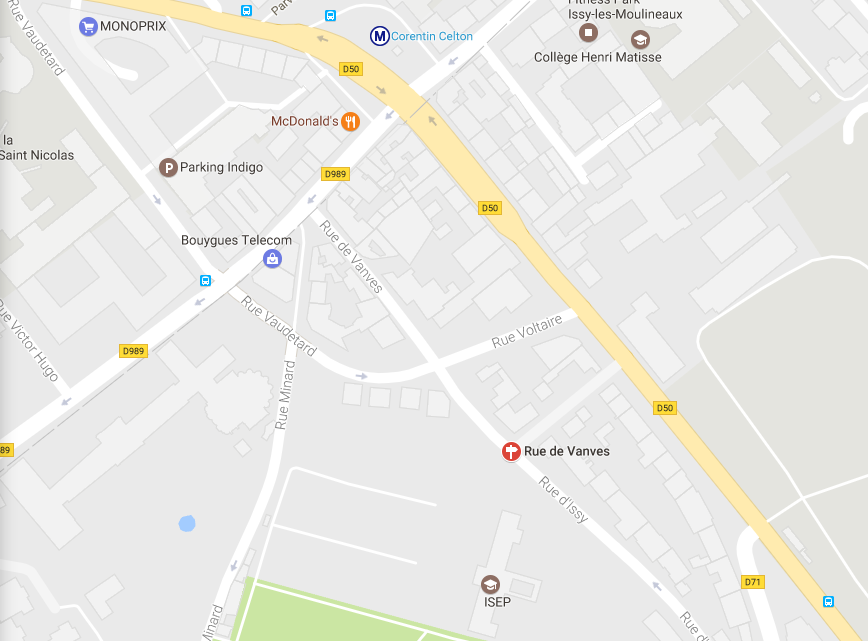
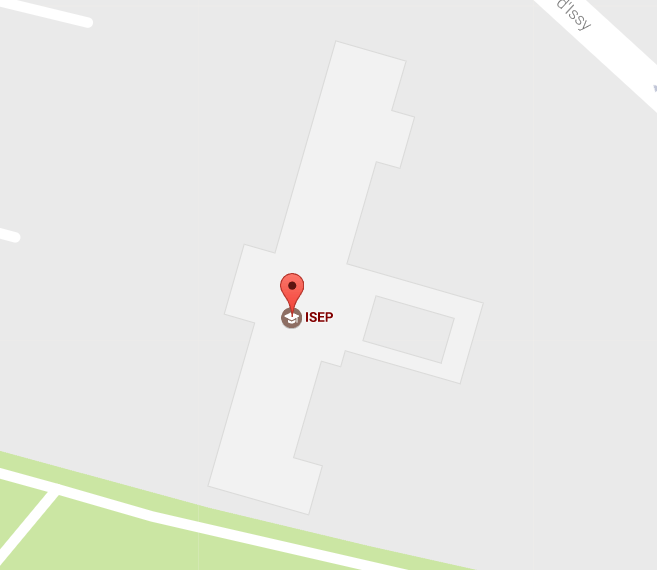
Modification mineures
- Logo ehome maintenant plus petit et avec plus de marge de chaque côté
- Décalage du menu objet
- nouvelle image dans le footer et lien vers google maps

diff --git a/views/styles/structure.css b/views/styles/structure.css
@@ -32,11 +32,6 @@ html
 
 }
 
-/*nav
-{
-  border: 5px solid yellow;
-}
-*/
 
 #content
 {
@@ -58,6 +53,8 @@ html
   align-items: center;
   margin: auto;
   height: 10%;
+  /*border: 5px solid green;
+  */
 }
 
 .menu_elements
@@ -66,7 +63,8 @@ html
   text-align: center;
   margin-right: 2.5%;
   vertical-align: middle;
-  /*padding: 15px;*/
+  /*border: 5px solid green;
+  */
 }
 
 .text_menu
@@ -74,6 +72,19 @@ html
   text-decoration: none;
   color: white;
   font-family: 'gr-book';
+  /*border: 5px solid green;
+  */
+}
+
+.logo_menu
+{
+  margin-left: 10px;
+  margin-right: 10px;
+  /*border: 5px solid yellow;*/
+  height: 30px;
+  margin-top: 20px;
+  margin-bottom: 20px;
+
 }
 
 /******************************************************************MENU PRODUITS*************************************************************/
@@ -84,9 +95,10 @@ html
   background-color: rgb(211,211,211);
   display: flex;
   margin: 0;
-  padding: 15px;
+  padding: 13px;
+  padding-left: 60px;
   /*border: 5px solid yellow;
-  */
+*/
 }
 
 .text_menu_products
@@ -101,12 +113,10 @@ html
 .menu_products_elements
 {
   list-style: none;
-  text-align: center;
-  margin-right: 50px;
   margin-left: 30px;
+  margin-right: 30px;
   /*border: 5px solid green;
-  */
-
+*/
 }
 
 /******************************************************************FOOTER *******************************************************************/

diff --git a/views/commun.php b/views/commun.php
@@ -54,7 +54,7 @@ function footer() {
 		<li class="footer_elements"> <em>Localisation</em> </li>
 
 		<ul>
-			<li class="footer_elements"> <p><img class="map" src="views\ressources\images\map_isep.png" alt="Map rue de Vanves"  title="Cliquez pour agrandir" /></p></li>
+			<li class="footer_elements"> <p><a href="https://www.google.fr/maps/place/ISEP/@48.8243885,2.2765791,16.25z/data=!4m5!3m4!1s0x47e670797ea4730d:0xe0d3eb2ad501cb27!8m2!3d48.824529!4d2.2798536"><img class="map" src="views\ressources\images\map_isep.png" alt="Map rue de Vanves"  title="Cliquez ici pour afficher dans Google Maps" /></a></p></li>
 		</ul>
 
 		<li class="footer_elements"> <em>Mentions légales</em> </li>
